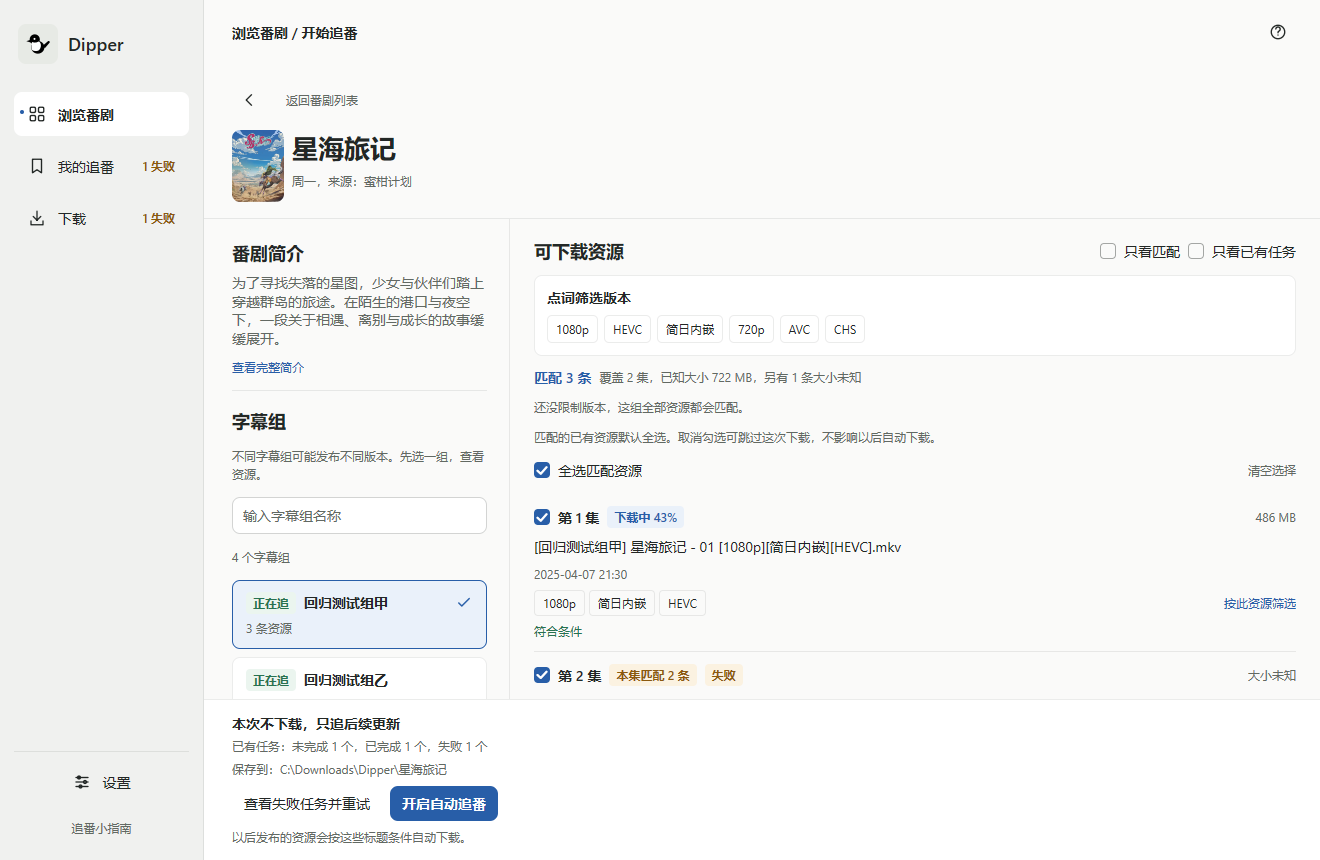
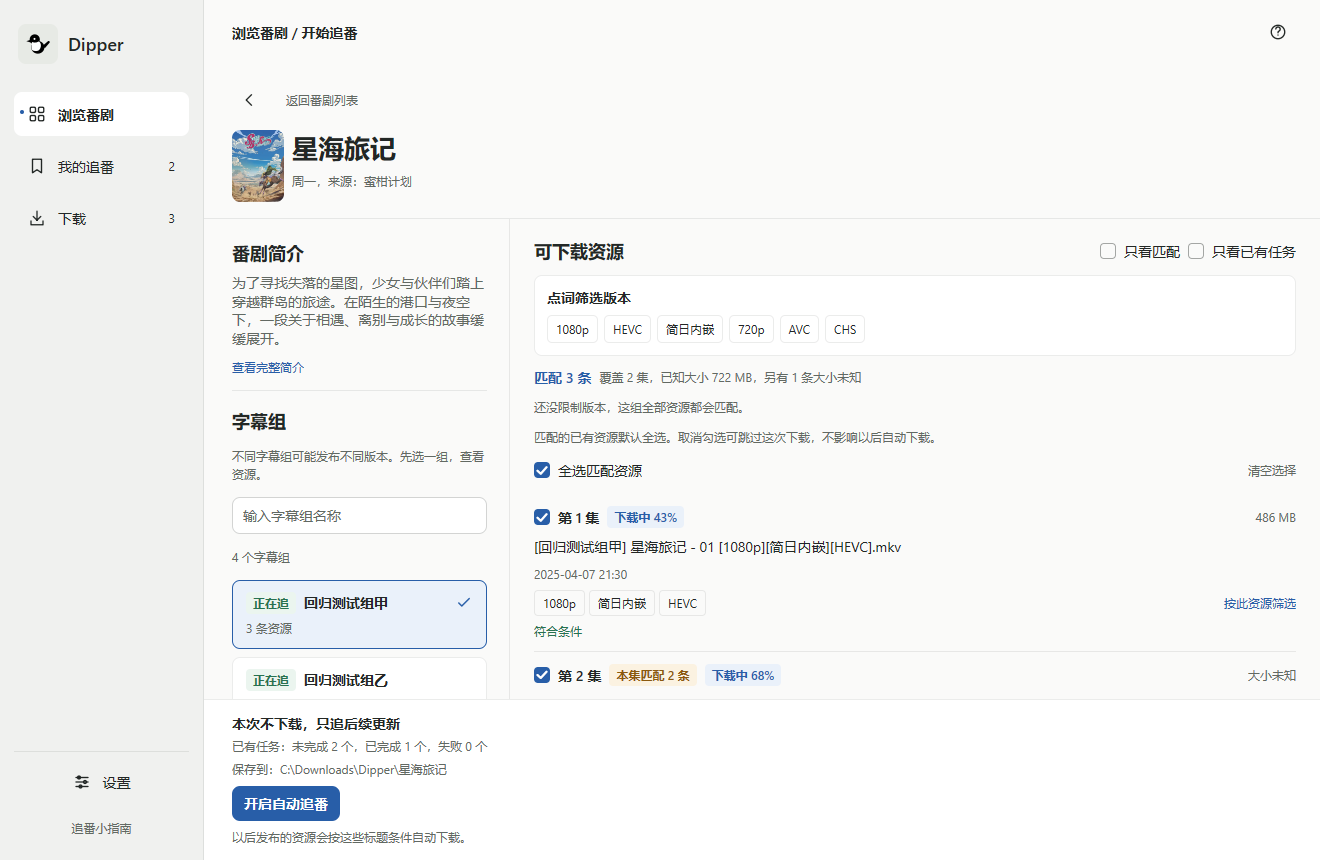
docs: use healthy sample states in README screenshots
The README screenshots showed a failed follow check and a failed transfer with retry prompts. The public screenshots now show healthy sample data: followed shows as clean posters opening their episode libraries, and downloads show running and sharing transfers without failure banners.

The failed-check view stays available as a developer reference render (14-following-check-failure), and tests that exercise failure UI now set the failure state explicitly on the shared fixture instead of relying on the screenshot data.

diff --git a/cmd/dipper/view_test.go b/cmd/dipper/view_test.go
@@ -335,6 +335,8 @@ func TestUIFollowingShowsPendingAndActiveSummary(t *testing.T) {
 
 func TestUIFollowingUsesSubscriptionIdentityAndRSSResult(t *testing.T) {
 	s := uiFixture(t, "following")
+	s.Subscriptions[1].CheckFailed = true
+	s.Subscriptions[1].LastError = "RSS 请求超时"
 	s.Catalog = nil
 	tt := ui.NewTester(s.view, 1320, 860)
 	uiRequireText(t, tt, s.KnownAnime[s.AnimeID].Title, s.Subscriptions[0].GroupName, s.Subscriptions[1].GroupName, "检查失败")
@@ -670,6 +672,10 @@ func TestUIDownloadsShowDashForStoppedTransfers(t *testing.T) {
 
 func TestUINavigationCallsOutFailedChecks(t *testing.T) {
 	s := uiFixture(t, "browse")
+	s.Subscriptions[1].CheckFailed = true
+	s.Subscriptions[1].LastError = "RSS 请求超时"
+	s.Downloads[1].Failed = true
+	s.Downloads[1].Error = "连接超时，请重试"
 	tt := ui.NewTester(s.view, 1320, 860)
 	uiRequireText(t, tt, "1 失败")
 	s.Subscriptions[1].CheckFailed = false
@@ -684,6 +690,8 @@ func TestUINavigationCallsOutFailedChecks(t *testing.T) {
 
 func TestUIFollowingCancelSubscriptionDialog(t *testing.T) {
 	s := uiFixture(t, "following")
+	s.Downloads[1].Failed = true
+	s.Downloads[1].Error = "连接超时，请重试"
 	sub := s.Subscriptions[0]
 	tt := ui.NewTester(s.view, 1320, 860)
 	uiClick(t, tt, "打开追番 "+sub.GroupName)
@@ -904,6 +912,8 @@ func TestUIRemoveDownloadForwardsDeleteAndRedownloadToCore(t *testing.T) {
 
 func TestUIActionsDelegateInsteadOfChangingFixtureState(t *testing.T) {
 	s := uiFixture(t, "downloads")
+	s.Downloads[1].Failed = true
+	s.Downloads[1].Error = "连接超时，请重试"
 	tt := ui.NewTester(s.view, 1320, 860)
 	uiClick(t, tt, "暂停全部下载")
 	uiClick(t, tt, "暂停")
@@ -927,6 +937,9 @@ func TestUIActionsDelegateInsteadOfChangingFixtureState(t *testing.T) {
 
 func TestUIDownloadsGroupByAnimeWithSummary(t *testing.T) {
 	s := uiFixture(t, "downloads")
+	s.Downloads[1].Failed = true
+	s.Downloads[1].Error = "连接超时，请重试"
+	s.Downloads[1].MB = 0
 	tt := ui.NewTester(s.view, 1320, 860)
 	headers := 0
 	for _, text := range tt.Texts() {
@@ -960,6 +973,8 @@ func TestUIDownloadsFilterHidesOtherStates(t *testing.T) {
 
 func TestUIDownloadsEmptyFilterOffersReset(t *testing.T) {
 	s := uiFixture(t, "downloads")
+	s.Downloads[1].Failed = true
+	s.Downloads[1].Error = "连接超时，请重试"
 	s.DownloadFilter = downloadsPaused
 	tt := ui.NewTester(s.view, 1320, 860)
 	uiRequireText(t, tt, "这个筛选下没有下载", "查看全部下载")
@@ -1323,6 +1338,30 @@ func TestUISettingsShowSeedAdvancedOptions(t *testing.T) {
 	}
 }
 
+func TestUIRenderFixtureShowsNoFailures(t *testing.T) {
+	s := uiRenderFixture()
+	for _, sub := range s.Subscriptions {
+		if sub.CheckFailed || sub.LastError != "" {
+			t.Fatalf("render fixture follow %q carries a failure: %+v", sub.ID, sub)
+		}
+	}
+	for _, download := range s.Downloads {
+		if download.Failed || download.Error != "" {
+			t.Fatalf("render fixture download %q carries a failure: %+v", download.ID, download)
+		}
+	}
+	for _, page := range []string{"browse", "following", "downloads"} {
+		s.Page = page
+		tt := ui.NewTester(s.view, 1320, 860)
+		tt.Frame()
+		for _, text := range tt.Texts() {
+			if text == "检查失败" || text == "重试检查" || text == "失败 1" || text == "失败 2" {
+				t.Errorf("%s screenshot shows a failure mark: %q", page, text)
+			}
+		}
+	}
+}
+
 func TestUIRenderScreensOffline(t *testing.T) {
 	dir := t.TempDir()
 	if err := renderScreens(dir); err != nil {
@@ -1506,6 +1545,8 @@ func (e *resumeAllTestEngine) Resume(id string) error {
 
 func TestUIDownloadsPauseAllIgnoresStoppedTransfers(t *testing.T) {
 	s := uiFixture(t, "downloads")
+	s.Downloads[1].Failed = true
+	s.Downloads[1].Error = "连接超时，请重试"
 	s.Downloads[0].Stopped = true
 	s.Downloads = append(s.Downloads, Download{ID: "finished-paused", Progress: 1, Stopped: true, Paused: true})
 	engine := &resumeAllTestEngine{}

diff --git a/cmd/dipper/ui_render.go b/cmd/dipper/ui_render.go
@@ -40,11 +40,11 @@ func uiRenderFixture() *State {
 	folder := filepath.Join(s.Root, s.Catalog[0].Title)
 	s.Subscriptions = []Subscription{
 		{ID: "render-sub-1", AnimeID: s.AnimeID, GroupID: s.GroupIDs[0], GroupName: s.Groups[0], Folder: folder, Rule: Rule{All: []string{"1080p"}}, LastCheck: "2025-04-14 22:01，新增 1 条"},
-		{ID: "render-sub-2", AnimeID: s.AnimeID, GroupID: s.GroupIDs[1], GroupName: s.Groups[1], Folder: folder, LastCheck: "2025-04-14 22:02", LastError: "RSS 请求超时", CheckFailed: true},
+		{ID: "render-sub-2", AnimeID: s.AnimeID, GroupID: s.GroupIDs[1], GroupName: s.Groups[1], Folder: folder, LastCheck: "2025-04-14 22:02"},
 	}
 	s.Downloads = []Download{
 		{ID: "render-download-1", AnimeID: s.AnimeID, ResourceID: s.ResourceList[0].ID, Title: s.ResourceList[0].Title, Episode: s.ResourceList[0].Episode, Folder: folder, MB: 486, Progress: .43, DownSpeed: 2.7, UpSpeed: .08},
-		{ID: "render-download-2", AnimeID: s.AnimeID, ResourceID: s.ResourceList[1].ID, Title: s.ResourceList[1].Title, Episode: s.ResourceList[1].Episode, Folder: folder, Progress: .12, Failed: true, Error: "连接超时，请重试"},
+		{ID: "render-download-2", AnimeID: s.AnimeID, ResourceID: s.ResourceList[1].ID, Title: s.ResourceList[1].Title, Episode: s.ResourceList[1].Episode, Folder: folder, MB: 486, Progress: .68, DownSpeed: 2.4, UpSpeed: .06},
 		{ID: "render-download-3", AnimeID: s.AnimeID, ResourceID: s.ResourceList[2].ID, Title: s.ResourceList[2].Title, Episode: s.ResourceList[2].Episode, Folder: folder, MB: 236, Progress: 1, UploadedMB: 84, UpSpeed: .12, SeedSeconds: 720},
 	}
 	s.OpenFolder = func(string) {}
@@ -66,7 +66,8 @@ func renderScreens(dir string) error {
 		{name: "02-filter", page: "detail", configure: func(s *State) { s.setWord("1080p", wordWant) }},
 		{name: "03-following", page: "following"},
 		{name: "14-following-check-failure", page: "following", configure: func(s *State) {
-			s.SaveError = "1 个追番检查失败，请打开对应剧集库查看原因并重试。"
+			s.Subscriptions[1].CheckFailed = true
+			s.Subscriptions[1].LastError = "RSS 请求超时"
 		}},
 		{name: "04-downloads", page: "downloads"},
 		{name: "05-settings", page: "settings"},

diff --git a/cmd/dipper/episode_library_test.go b/cmd/dipper/episode_library_test.go
@@ -13,6 +13,8 @@ func TestUIEpisodeLibraryListsAndPlaysEpisodes(t *testing.T) {
 	s.LibraryID = s.Subscriptions[0].ID
 	s.Downloads[0].Episode = "02"
 	s.Downloads[2].Episode = "05"
+	s.Downloads[1].Failed = true
+	s.Downloads[1].Error = "连接超时，请重试"
 	played := make(chan string, 1)
 	engine := &playTestEngine{files: []string{filepath.Join(s.Root, "星海旅记", "episode.mkv")}}
 	s.Engine = engine

diff --git a/cmd/dipper/visual_system_test.go b/cmd/dipper/visual_system_test.go
@@ -32,6 +32,8 @@ func TestUISidebarCountSharesRowAndLargeTextRemainsReachable(t *testing.T) {
 	for _, scale := range []float32{1, 2} {
 		state := uiFixture(t, "browse")
 		state.Subscriptions[1].CheckFailed = false
+		state.Downloads[1].Failed = true
+		state.Downloads[1].Error = "连接超时，请重试"
 		tester := ui.NewTester(func(c *ui.Context) {
 			installTheme(c, false)
 			state.sidebar(c)

diff --git a/cmd/dipper/download_group_eta_test.go b/cmd/dipper/download_group_eta_test.go
@@ -8,6 +8,8 @@ import (
 
 func TestUIDownloadGroupShowsCombinedETA(t *testing.T) {
 	s := uiFixture(t, "downloads")
+	s.Downloads[1].Failed = true
+	s.Downloads[1].Error = "连接超时，请重试"
 	tt := ui.NewTester(s.view, 1320, 860)
 	uiRequireText(t, tt, "3 个下载任务，下载中 1，分享中 1，失败 1，剩余约 1 分钟")
 }

diff --git a/cmd/dipper/resource_play_test.go b/cmd/dipper/resource_play_test.go
@@ -10,6 +10,8 @@ import (
 
 func TestUIResourceRowShowsDownloadState(t *testing.T) {
 	s := uiFixture(t, "detail")
+	s.Downloads[1].Failed = true
+	s.Downloads[1].Error = "连接超时，请重试"
 	tt := ui.NewTester(s.view, 1320, 860)
 	uiRequireText(t, tt, "下载中 43%", "已有任务", "失败")
 	failures := func() int {

diff --git a/cmd/dipper/following_order_test.go b/cmd/dipper/following_order_test.go
@@ -9,6 +9,8 @@ import (
 
 func TestUIFollowingListFloatsFailedChecks(t *testing.T) {
 	s := uiFixture(t, "following")
+	s.Subscriptions[1].CheckFailed = true
+	s.Subscriptions[1].LastError = "RSS 请求超时"
 	tt := ui.NewTester(s.view, 1320, 860)
 
 	joined := strings.Join(tt.Texts(), "\n")

diff --git a/docs/development.md b/docs/development.md
@@ -59,13 +59,13 @@ The sample titles, fansub groups, dates, and transfer figures come from
 | --- | --- |
 | [01-browse.png](assets/ui/01-browse.png) | Seasonal catalog; README overview |
 | [02-filter.png](assets/ui/02-filter.png) | Title-word selection and release preview |
-| [03-following.png](assets/ui/03-following.png) | Saved follows and check results |
+| [03-following.png](assets/ui/03-following.png) | Saved follows as posters, opening the episode library |
 | [04-downloads.png](assets/ui/04-downloads.png) | Transfer progress and controls |
 | [09-anime-summary.png](assets/ui/09-anime-summary.png) | Full synopsis in a reading dialog |
 | [10-group-picker.png](assets/ui/10-group-picker.png) | Subtitle-group search and release counts |
 | [11-view-resources.png](assets/ui/11-view-resources.png) | Following-card resource entry and manual backfill |
 | [12-seed-settings.png](assets/ui/12-seed-settings.png) | Seeding-duration choice in transfer settings |
-| [14-following-check-failure.png](assets/ui/14-following-check-failure.png) | A failed follow check and its retry |
+| [14-following-check-failure.png](assets/ui/14-following-check-failure.png) | Failed follow check and its retry; developer reference, not used in the README |
 
 Keep the README's sample-data caption when refreshing these images. Review
 them at the size readers see on GitHub and keep image alternative text

diff --git a/README.md b/README.md
@@ -122,8 +122,8 @@ bar and the next action beside every task.
     <th width="50%">Your downloads</th>
   </tr>
   <tr>
-    <td><a href="docs/assets/ui/03-following.png"><img src="docs/assets/ui/03-following.png" alt="Followed shows as posters, with a failed check marked and a retry action"></a></td>
-    <td><a href="docs/assets/ui/04-downloads.png"><img src="docs/assets/ui/04-downloads.png" alt="Downloads grouped by series, with a group progress bar, per-task speeds, retry, and sharing controls"></a></td>
+    <td><a href="docs/assets/ui/03-following.png"><img src="docs/assets/ui/03-following.png" alt="Followed shows as posters, each card opening its episode library"></a></td>
+    <td><a href="docs/assets/ui/04-downloads.png"><img src="docs/assets/ui/04-downloads.png" alt="Downloads grouped by series, with a group progress bar, per-task speeds, and sharing controls"></a></td>
   </tr>
 </table>
 
